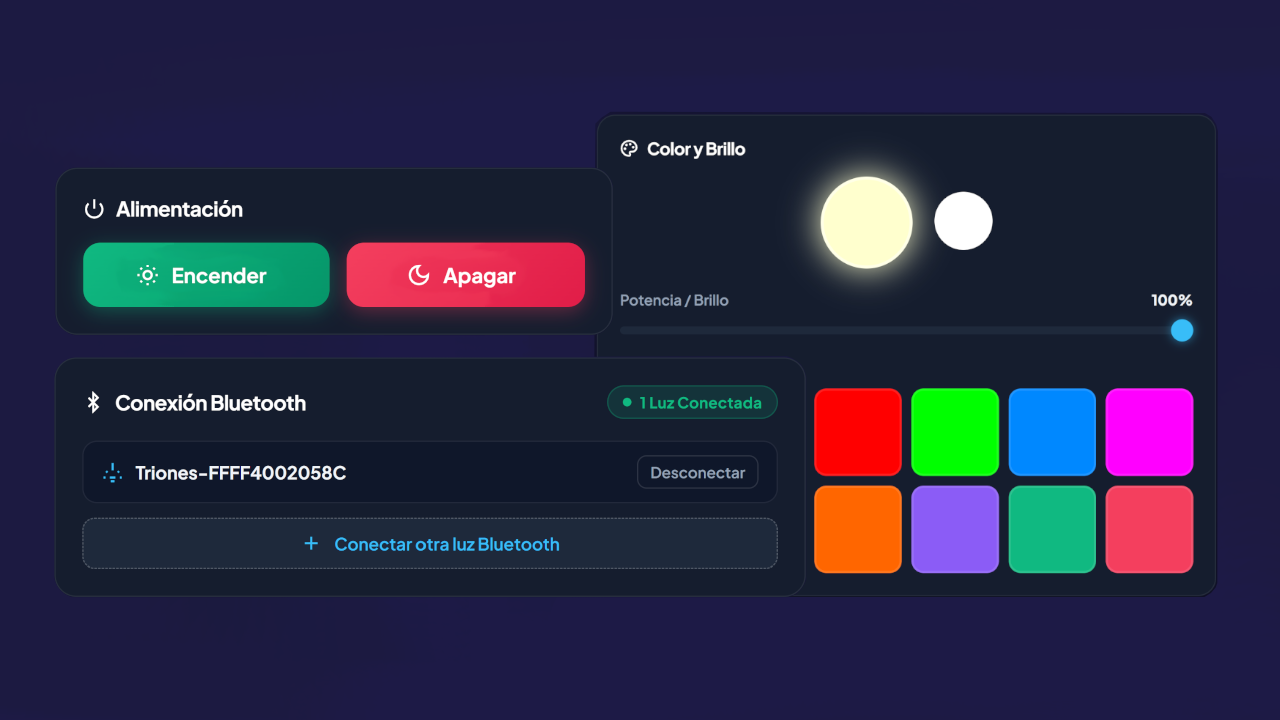
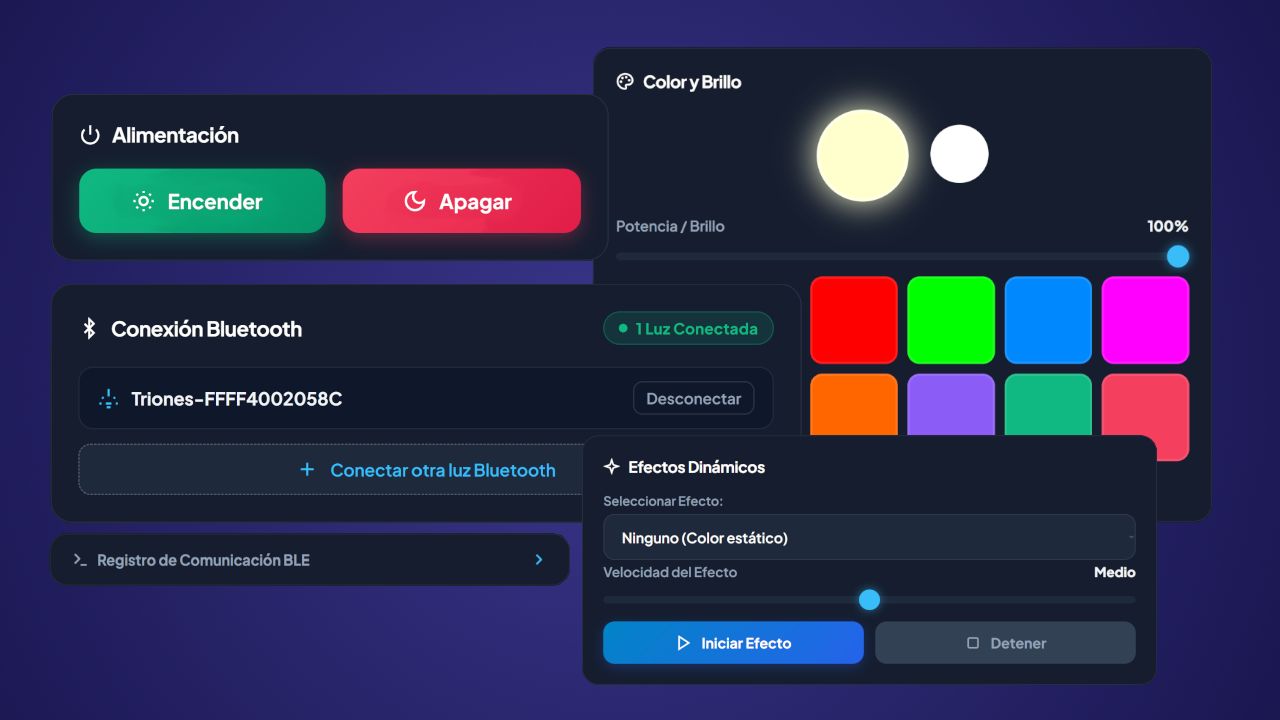
refactor: homogenizar iconos de aplicaciones a 1254x1254, actualizar preview de BrightLight y renombrar ItchLab

diff --git a/index.html b/index.html
@@ -353,16 +353,16 @@
               </div>
             </article>
 
-            <!-- App 2: ItchLab.io -->
+            <!-- App 2: ItchLab -->
             <article class="app-box-card" onclick="window.open('https://itchlab.eternodev.com', '_blank', 'noopener,noreferrer')" style="cursor: pointer;">
               <div class="app-top-header">
                 <div class="app-header-title-wrap">
-                  <img src="src/img/apps/icon_itchlab.svg" alt="ItchLab.io" class="app-icon-thumb" />
-                  <h3 class="app-name-title">ItchLab.io</h3>
+                  <img src="src/img/apps/icon_itchlab.png" alt="ItchLab" class="app-icon-thumb" />
+                  <h3 class="app-name-title">ItchLab</h3>
                 </div>
               </div>
               <div class="app-preview-media">
-                <img src="src/img/apps/preview_itchlab.svg" alt="ItchLab.io" class="app-preview-img" />
+                <img src="src/img/apps/preview_itchlab.svg" alt="ItchLab" class="app-preview-img" />
               </div>
               <div class="app-details-dark">
                 <ul class="app-bullets-container">
@@ -737,19 +737,19 @@
               </div>
             </article>
 
-            <!-- App 2: ItchLab.io -->
+            <!-- App 2: ItchLab -->
             <article class="app-box-card" onclick="window.open('https://itchlab.eternodev.com', '_blank', 'noopener,noreferrer')" style="cursor: pointer;">
               <div class="app-top-header">
                 <div class="app-header-title-wrap">
-                  <img src="src/img/apps/icon_itchlab.svg" alt="ItchLab.io" class="app-icon-thumb" />
-                  <h3 class="app-name-title">ItchLab.io</h3>
+                  <img src="src/img/apps/icon_itchlab.png" alt="ItchLab" class="app-icon-thumb" />
+                  <h3 class="app-name-title">ItchLab</h3>
                 </div>
-                <button class="btn-bookmark-action" data-bookmark-id="itchlab" onclick="event.stopPropagation(); toggleBookmark(event, { id: 'itchlab', type: 'app', title: 'ItchLab.io', url: 'https://itchlab.eternodev.com', cover_url: 'src/img/apps/icon_itchlab.svg', badge: 'Web App' })" title="Guardar proyecto">
+                <button class="btn-bookmark-action" data-bookmark-id="itchlab" onclick="event.stopPropagation(); toggleBookmark(event, { id: 'itchlab', type: 'app', title: 'ItchLab', url: 'https://itchlab.eternodev.com', cover_url: 'src/img/apps/icon_itchlab.png', badge: 'Web App' })" title="Guardar proyecto">
                   <svg viewBox="0 0 24 24" width="18" height="18" fill="none" stroke="currentColor" stroke-width="2.2" stroke-linecap="round" stroke-linejoin="round"><path d="M19 21l-7-5-7 5V5a2 2 0 0 1 2-2h10a2 2 0 0 1 2 2z"/></svg>
                 </button>
               </div>
               <div class="app-preview-media">
-                <img src="src/img/apps/preview_itchlab.svg" alt="ItchLab.io" class="app-preview-img" />
+                <img src="src/img/apps/preview_itchlab.svg" alt="ItchLab" class="app-preview-img" />
               </div>
               <div class="app-details-dark">
                 <ul class="app-bullets-container">
